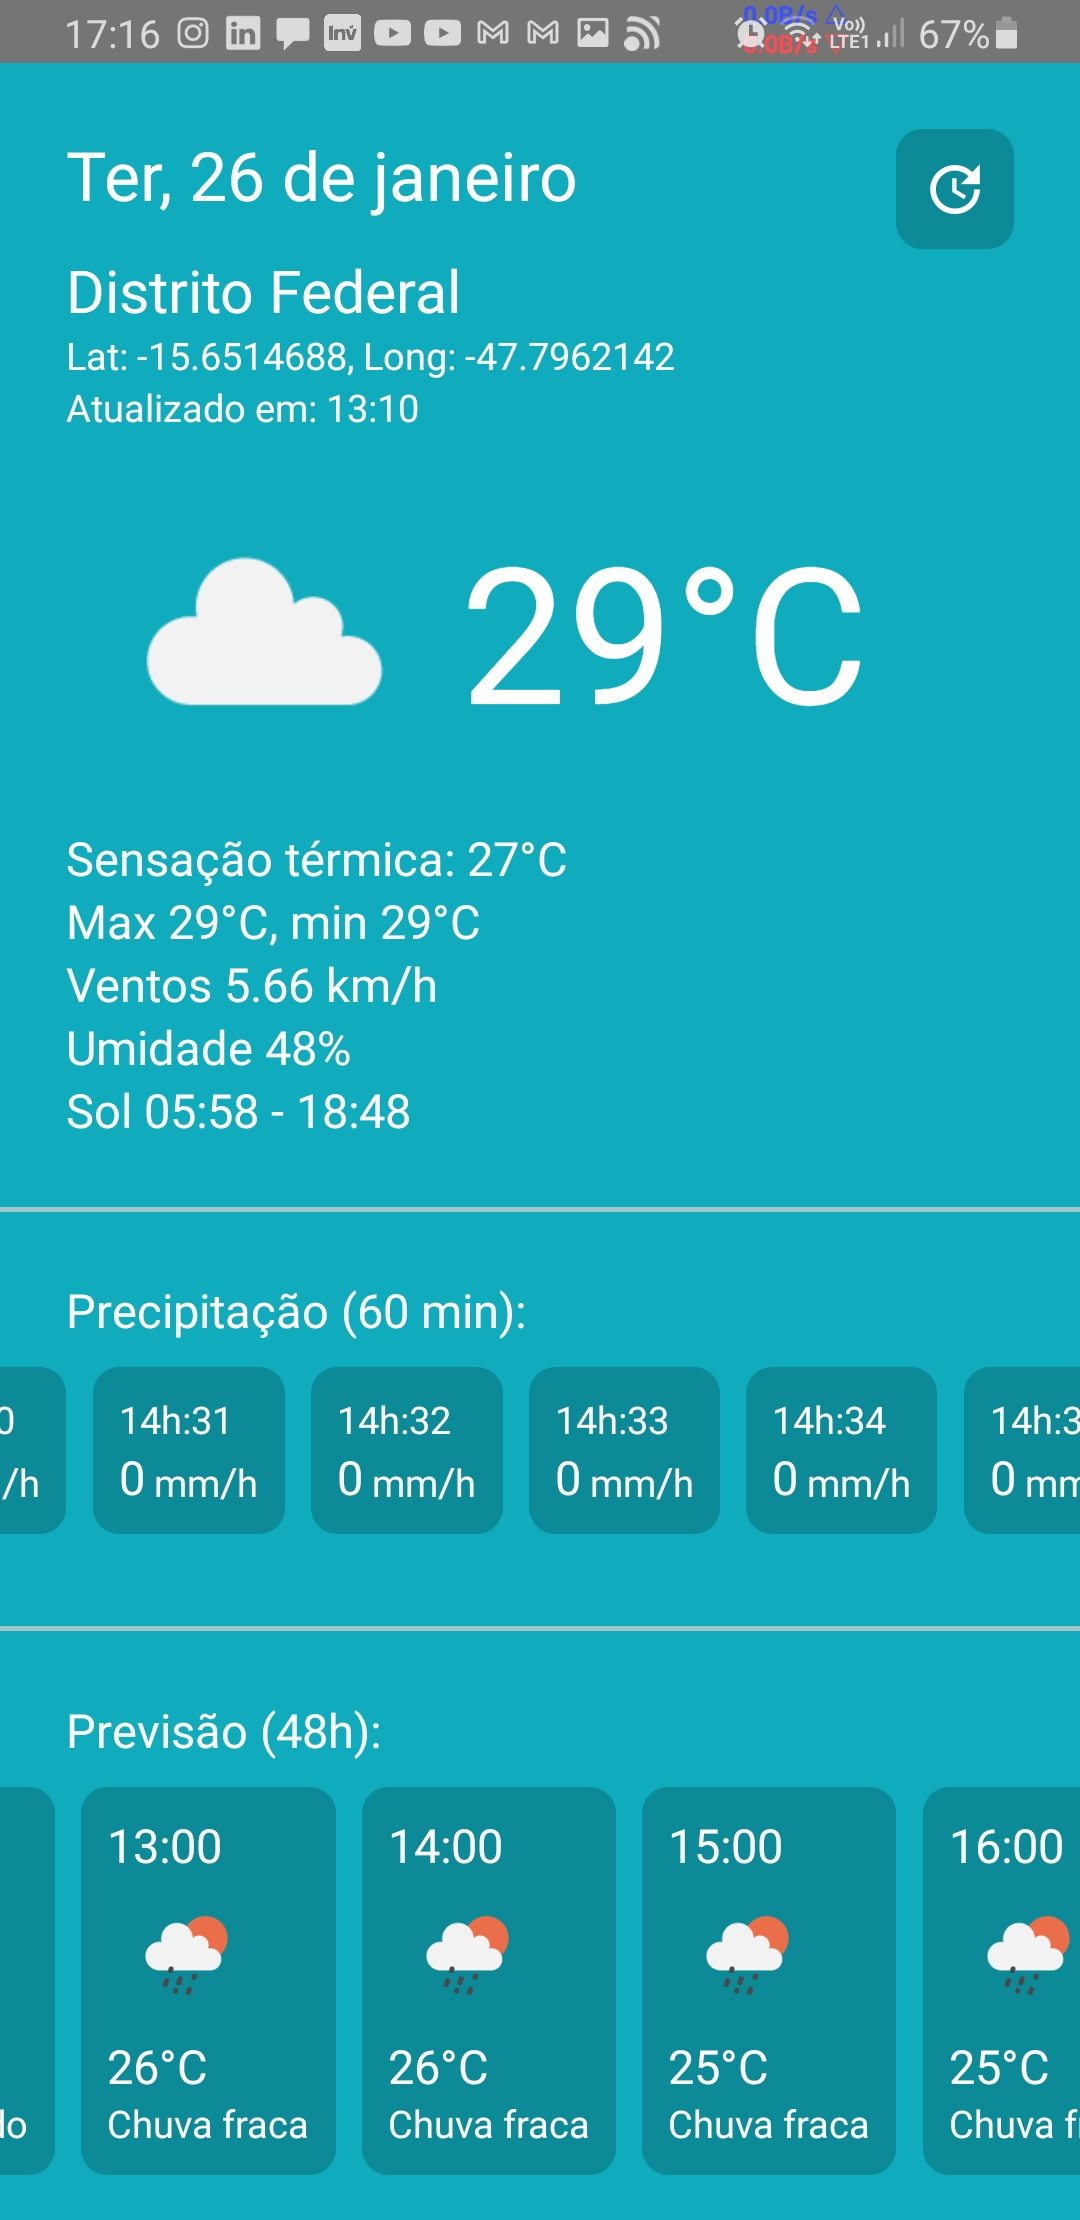
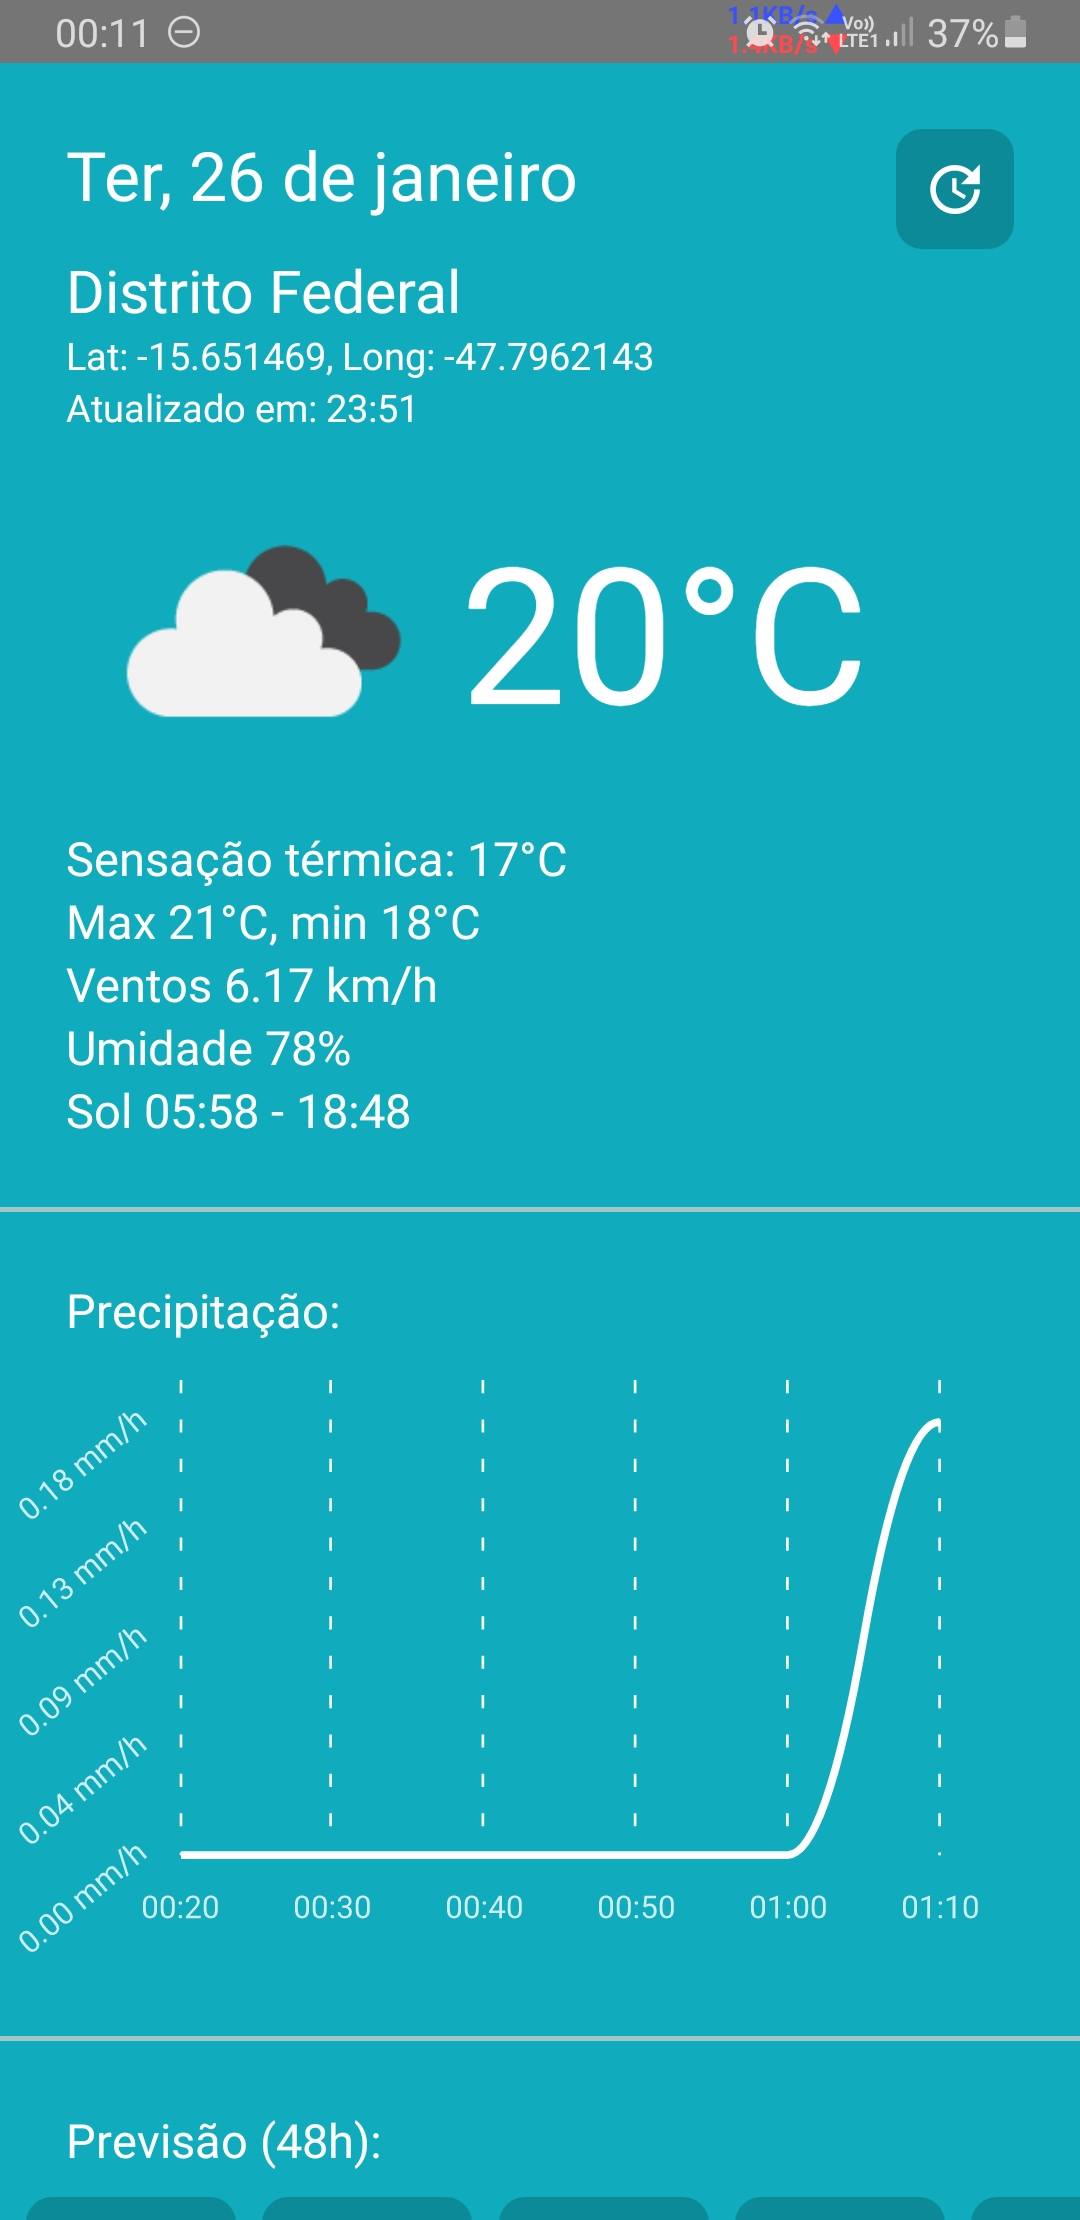
Adds missing documentation

diff --git a/README.md b/README.md
@@ -60,4 +60,7 @@ assim, nem sempre ao atualizar a aplicação, serão retornado novos valores
   - Biblioteca que torna a componentização de componentes mais unificada entre
 reactJS e react native
 
+
+* **react-native-chart-kit**
+  - Gráficos em react native
 ---
